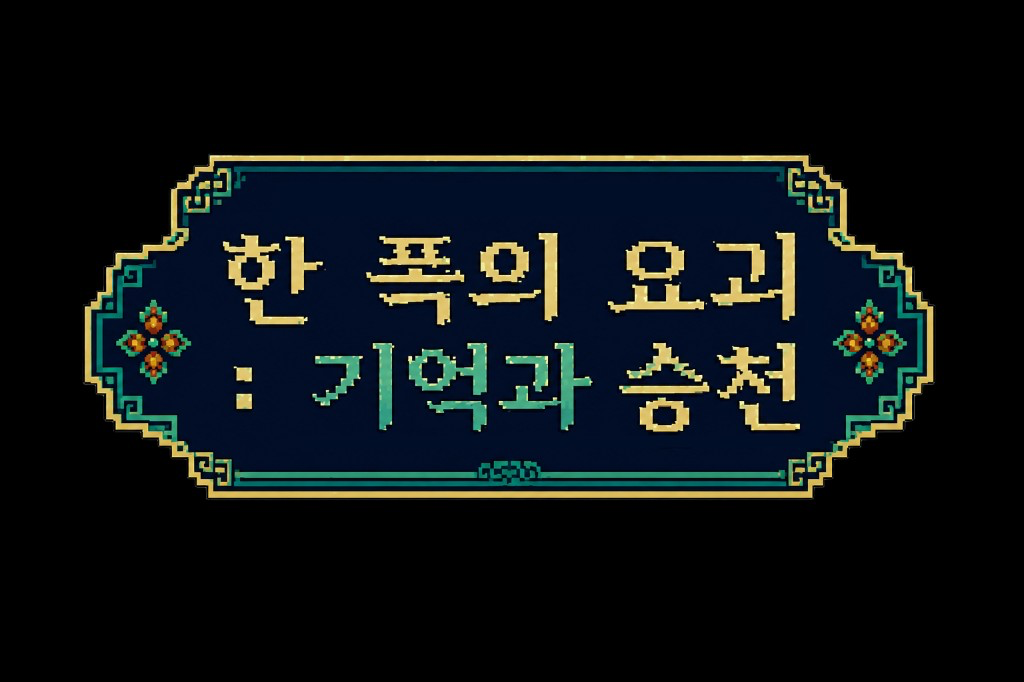
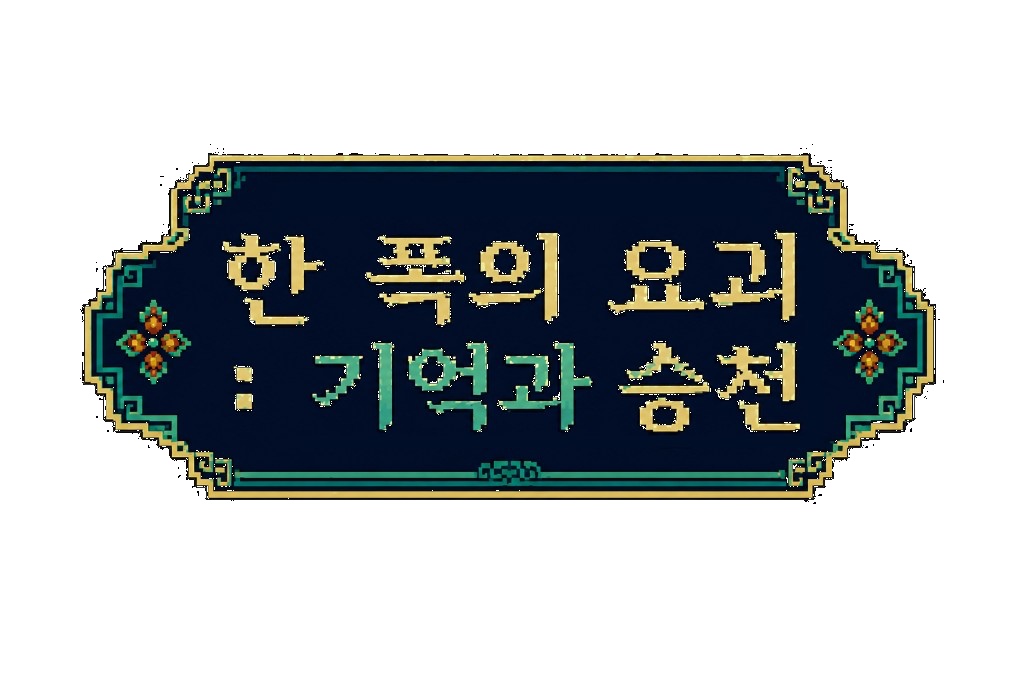
feat: 오프닝수정

diff --git a/Assets/WebGLTemplates/Yogoe/TemplateData/style.css b/Assets/WebGLTemplates/Yogoe/TemplateData/style.css
@@ -1,7 +1,7 @@
 body {
   padding: 0;
   margin: 0;
-  background: #000000;
+  background: #5ba8d8;
 }
 
 #unity-container {
@@ -21,7 +21,7 @@ body {
 }
 
 #unity-canvas {
-  background: #000000;
+  background: #5ba8d8;
 }
 
 .unity-mobile #unity-canvas {
@@ -29,13 +29,13 @@ body {
   height: 100%;
 }
 
-/* 로딩: 캔버스 위를 덮고, 준비되면 페이드로 걷혀 인게임이 드러남 */
+/* 로딩: Overview 하늘 위로 로고. 준비되면 페이드 → 인게임 하늘이 이어짐 */
 #unity-loading-bar {
   position: fixed;
   inset: 0;
   z-index: 15;
   display: none;
-  background: #000000;
+  background: #5ba8d8 url("loading_sky.png") center top / cover no-repeat;
   text-align: center;
   opacity: 1;
   transition: opacity 0.9s ease;
@@ -49,7 +49,7 @@ body {
 #unity-loading-bar .loading-inner {
   position: absolute;
   left: 50%;
-  top: 50%;
+  top: 42%;
   transform: translate(-50%, -50%);
   width: 100%;
   transition: opacity 0.45s ease;
@@ -63,8 +63,8 @@ body {
   width: min(86vw, 420px);
   height: min(38vw, 180px);
   margin: 0 auto;
-  background: #000000 url("game_title.png") center / contain no-repeat;
-  opacity: 0.92;
+  background: url("game_title.png") center / contain no-repeat;
+  opacity: 0.96;
 }
 
 /* 진행률은 DOM에만 두고 화면에는 안 보임 (로드 콜백용) */
@@ -116,7 +116,7 @@ body {
   align-items: center;
   justify-content: center;
   gap: 20px;
-  background: #000000;
+  background: #5ba8d8 url("loading_sky.png") center top / cover no-repeat;
   color: #f5f0e8;
   font-family: "Apple SD Gothic Neo", "Malgun Gothic", sans-serif;
 }
@@ -131,6 +131,7 @@ body {
   font-size: 18px;
   letter-spacing: 0.08em;
   opacity: 0.85;
+  text-shadow: 0 1px 3px rgba(0, 0, 0, 0.35);
   animation: start-pulse 1.6s ease-in-out infinite;
 }
 

diff --git a/Assets/WebGLTemplates/Yogoe/index.html b/Assets/WebGLTemplates/Yogoe/index.html
@@ -101,7 +101,7 @@
       function hideLoadingOverlay() {
         if (!loadingBar || loadingBar.dataset.hiding === "1") return;
         loadingBar.dataset.hiding = "1";
-        // 검은 오버레이만 페이드아웃 → 아래 인게임이 자연스럽게 드러남
+        // 하늘·로고 오버레이 페이드 → 아래 인게임(하늘 출발)이 드러난 뒤 카메라가 내려감
         loadingBar.classList.add("hiding");
         setTimeout(function () {
           loadingBar.style.display = "none";

diff --git a/Assets/Scripts/Bootstrap/MapIntro.cs b/Assets/Scripts/Bootstrap/MapIntro.cs
@@ -1,0 +1,127 @@
+using System.Collections;
+using UnityEngine;
+using Yoegoe.Core;
+using Yoegoe.Debugging;
+using Yoegoe.UI;
+
+namespace Yoegoe.Bootstrap
+{
+    /// <summary>
+    /// 인트로: Overview 하늘에서 시작해, 로딩이 끝나면 카메라가 살짝 아래로 내려가며 본편 진입.
+    /// </summary>
+    public sealed class MapIntro : MonoBehaviour
+    {
+        public static MapIntro Instance { get; private set; }
+
+        /// <summary>하늘 구도용 ortho (맵 상단이 화면을 채우도록).</summary>
+        const float IntroOrtho = 1.65f;
+        const float PanSeconds = 1.35f;
+
+        static readonly Color SkyClear = new Color(0.42f, 0.72f, 0.88f);
+
+        float homeOrtho;
+        Vector3 homePos;
+        bool prepared;
+
+        void Awake()
+        {
+            Instance = this;
+        }
+
+        void OnDestroy()
+        {
+            if (Instance == this) Instance = null;
+        }
+
+        /// <summary><see cref="WorldAssembler"/> WireCameraPan 직후 호출.</summary>
+        public static void PrepareAfterMapWire()
+        {
+            var cam = Camera.main;
+            if (cam == null) return;
+
+            var intro = cam.GetComponent<MapIntro>();
+            if (intro == null) intro = cam.gameObject.AddComponent<MapIntro>();
+            intro.Prepare();
+        }
+
+        void Prepare()
+        {
+            var cam = GetComponent<Camera>();
+            if (cam == null) cam = Camera.main;
+            var drag = cam != null ? cam.GetComponent<MapCameraDrag>() : null;
+            if (cam == null || drag == null || !drag.BoundsReady) return;
+
+            homeOrtho = cam.orthographicSize;
+            homePos = cam.transform.position;
+
+            float ortho = Mathf.Clamp(IntroOrtho, drag.minOrtho, Mathf.Max(drag.minOrtho + 0.05f, homeOrtho));
+            cam.orthographicSize = ortho;
+            drag.RefreshPanLimits();
+
+            Vector3 sky = homePos;
+            sky.x = drag.ContentCenter.x;
+            sky.y = drag.MaxPanCenter.y;
+            cam.transform.position = drag.ClampCenter(sky);
+
+            cam.backgroundColor = SkyClear;
+            prepared = true;
+        }
+
+        public bool IsPrepared => prepared;
+
+        /// <summary>하늘 → 홈으로 ortho·위치를 보간. HUD는 연출 중 숨김.</summary>
+        public IEnumerator PlayReveal()
+        {
+            if (!prepared)
+                yield break;
+
+            CeremonyGate.Begin();
+            SetHudVisible(false);
+
+            var cam = GetComponent<Camera>();
+            if (cam == null) cam = Camera.main;
+            var drag = cam != null ? cam.GetComponent<MapCameraDrag>() : null;
+            if (cam == null)
+            {
+                CeremonyGate.End();
+                prepared = false;
+                yield break;
+            }
+
+            Vector3 from = cam.transform.position;
+            float fromOrtho = cam.orthographicSize;
+            float t = 0f;
+            while (t < PanSeconds)
+            {
+                t += Time.unscaledDeltaTime;
+                float u = Mathf.SmoothStep(0f, 1f, Mathf.Clamp01(t / PanSeconds));
+                cam.orthographicSize = Mathf.Lerp(fromOrtho, homeOrtho, u);
+                if (drag != null) drag.RefreshPanLimits();
+                Vector3 p = Vector3.Lerp(from, homePos, u);
+                cam.transform.position = drag != null ? drag.ClampCenter(p) : p;
+                yield return null;
+            }
+
+            cam.orthographicSize = homeOrtho;
+            if (drag != null)
+            {
+                drag.RefreshPanLimits();
+                cam.transform.position = drag.ClampCenter(homePos);
+            }
+            else
+            {
+                cam.transform.position = homePos;
+            }
+
+            SetHudVisible(true);
+            CeremonyGate.End();
+            prepared = false;
+        }
+
+        static void SetHudVisible(bool visible)
+        {
+            if (GameHud.Instance != null)
+                GameHud.Instance.gameObject.SetActive(visible);
+        }
+    }
+}

diff --git a/Assets/Scripts/Debugging/MapCameraDrag.cs b/Assets/Scripts/Debugging/MapCameraDrag.cs
@@ -67,6 +67,11 @@ namespace Yoegoe.Debugging
             cam.transform.position = ClampCenter(pos);
         }
 
+        public bool BoundsReady => boundsSet;
+        public Vector2 ContentCenter => panCenter;
+        public Vector2 MinPanCenter => minCenter;
+        public Vector2 MaxPanCenter => maxCenter;
+
         /// <summary>맵 콘텐츠 반폭·반높이(월드)와 중심. 줌에 따라 패닝 한도를 다시 계산한다.</summary>
         public void SetContentRect(Vector2 center, float halfWidth, float halfHeight)
         {
@@ -88,7 +93,8 @@ namespace Yoegoe.Debugging
             RefreshPanLimits();
         }
 
-        void RefreshPanLimits()
+        /// <summary>ortho 변경 후 패닝 한도 재계산 (인트로 등).</summary>
+        public void RefreshPanLimits()
         {
             if (!boundsSet || cam == null) return;
             float camH = cam.orthographicSize * 2f;
@@ -99,7 +105,7 @@ namespace Yoegoe.Debugging
             maxCenter = new Vector2(panCenter.x + halfExtraW, panCenter.y + halfExtraH);
         }
 
-        Vector3 ClampCenter(Vector3 pos)
+        public Vector3 ClampCenter(Vector3 pos)
         {
             if (!boundsSet) return pos;
             pos.x = Mathf.Clamp(pos.x, minCenter.x, maxCenter.x);

diff --git a/Assets/Scripts/Main.cs b/Assets/Scripts/Main.cs
@@ -6,6 +6,7 @@ using Yoegoe.Core;
 using Yoegoe.Data;
 using Yoegoe.Economy;
 using Yoegoe.Save;
+using Yoegoe.UI;
 
 namespace Yoegoe
 {
@@ -105,6 +106,10 @@ namespace Yoegoe
                 offerings = offerings,
                 goraniData = goraniData,
             });
+
+            // 인트로 중 HUD가 하늘을 가리지 않게
+            if (MapIntro.Instance != null && MapIntro.Instance.IsPrepared && GameHud.Instance != null)
+                GameHud.Instance.gameObject.SetActive(false);
         }
 
         IEnumerator Start()
@@ -112,9 +117,14 @@ namespace Yoegoe
             yield return null;
             UiAssembler.ForceCloseOverlayScreens();
             GameSaveBridge.TryLoadSimulateAndApply(hudFont);
+
+            // 로딩 오버레이를 걷히며 Overview 하늘 → 아래로 팬
+            session.HideWebGlLoadingOverlay();
+            if (MapIntro.Instance != null && MapIntro.Instance.IsPrepared)
+                yield return MapIntro.Instance.PlayReveal();
+
             session.MarkReady();
             session.TryOpenAttendanceIfDue();
-            session.HideWebGlLoadingOverlay();
         }
 
         void Update() => session?.Tick();

diff --git a/Assets/Scripts/Bootstrap/WorldAssembler.cs b/Assets/Scripts/Bootstrap/WorldAssembler.cs
@@ -237,6 +237,8 @@ namespace Yoegoe.Bootstrap
 
             var router = cam.GetComponent<MapPointerRouter>();
             if (router != null) router.mapDrag = drag;
+
+            MapIntro.PrepareAfterMapWire();
         }
 
         static Collider2D BuildPlayfieldWalkCollider(GameObject fieldGO, Sprite sprite)

diff --git a/Docs/02_개발진행.md b/Docs/02_개발진행.md
@@ -23,7 +23,7 @@
 | 시작 재화: 엽전100·향2·물0·공양0 | ✅ | `StartingStateSettings` |
 | 시작 캐릭: 토끼·삼족오만 (구미호 제거) | ✅ | `Main.cs` |
 | 소환 · 기력 **1** | ✅ | `CharacterAgent.ApplyFreshSummon` |
-| 인트로(로고 → 하늘 → 화면 살짝 아래로) | ❌ | |
+| 인트로(로고 → 하늘 → 화면 살짝 아래로) | ✅ | WebGL: Overview 하늘(`loading_sky`) + 투명 로고 · `MapIntro` 카메라 팬 |
 
 ### 4. 캐릭터
 | 항목 | 상태 | 비고 |
@@ -148,7 +148,7 @@
 3. ~~상점 5분치 공덕 리셋, 기물 길게 누르기 개별 업그레이드~~ ✅
 4. 재접속 인사, 하트 연출, 만창 시 다른 기물로 이동
 5. 요리책(도감), 황금음식, 재료 부족 확인 팝업
-6. 사운드, 인트로
+6. 사운드
 7. Unity에서 **Bake GongyangganScreen Prefab** 실행 후 플레이 검증 (15초, 5×5판)
 8. `05`의 PDF 모순(A1~A5) 정리되면 반영 · `06`/`07` 3차 동기화
 9. ~~윷놀이 보상 정리~~ ✅ 특수칸 5·보물확률·완주부적·부적 인벤
